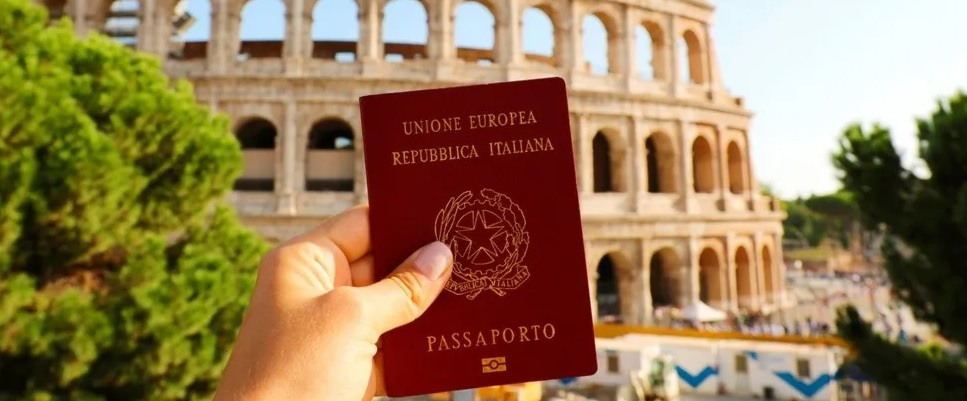
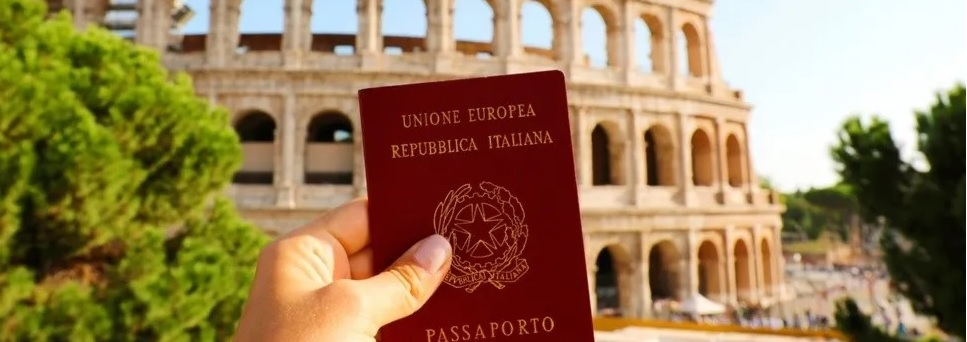
Arreglando vista italiana

diff --git a/page/ciudadaniaitaliana.html b/page/ciudadaniaitaliana.html
@@ -3,10 +3,16 @@
 <head>
     <meta charset="UTF-8">
     <meta name="viewport" content="width=device-width, initial-scale=1.0">
+    <!--Google Fonts-->
     <link rel="preconnect" href="https://fonts.googleapis.com">
     <link rel="preconnect" href="https://fonts.gstatic.com" crossorigin>
     <link href="https://fonts.googleapis.com/css2?family=Playwrite+SK:wght@100&display=swap" rel="stylesheet">
     <link href="https://fonts.googleapis.com/css2?family=Roboto:ital,wght@0,100;0,300;0,400;0,500;0,700;0,900;1,100;1,300;1,400;1,500;1,700;1,900&display=swap" rel="stylesheet">
+
+    <!--Bs-->
+    <link href="https://cdn.jsdelivr.net/npm/bootstrap@5.3.3/dist/css/bootstrap.min.css" rel="stylesheet" integrity="sha384-QWTKZyjpPEjISv5WaRU9OFeRpok6YctnYmDr5pNlyT2bRjXh0JMhjY6hW+ALEwIH" crossorigin="anonymous">
+
+    <!--Estilos-->
     <link rel="stylesheet" href="../css/styles.css">
     <title>Ciudadanía Italiana</title>
 </head>
@@ -28,7 +34,27 @@
         </header>
 
         <section class="class-carrusel">
-            <img class="img-banner" src="../img/passaporto.jpg" alt="Imagen">
+            <div id="carouselTwo" class="carousel slide">
+                <div class="carousel-inner">
+                  <div class="carousel-item active">
+                    <img src="../img/passaporto.jpg" class="img-banner d-block w-100" alt="Imagen">
+                  </div>
+                  <div class="carousel-item">
+                    <img src="../img/italy.jpg" class="img-banner d-block w-100" alt="Documentos anteriores">
+                  </div>
+                  <div class="carousel-item">
+                    <img src="../img/venecia.jpg" class="img-banner d-block w-100" alt="Fila migrantes barco">
+                  </div>
+                </div>
+                <button class="carousel-control-prev" type="button" data-bs-target="#carouselTwo" data-bs-slide="prev">
+                  <span class="carousel-control-prev-icon" aria-hidden="true"></span>
+                  <span class="visually-hidden">Previous</span>
+                </button>
+                <button class="carousel-control-next" type="button" data-bs-target="#carouselTwo" data-bs-slide="next">
+                  <span class="carousel-control-next-icon" aria-hidden="true"></span>
+                  <span class="visually-hidden">Next</span>
+                </button>
+            </div>
         </section>
 
         <section class="section-informacion">
@@ -303,5 +329,10 @@
             </section>       
         </footer>
     </div>
+
+    <!--Bs scripts-->
+    <script src="https://cdn.jsdelivr.net/npm/@popperjs/core@2.11.8/dist/umd/popper.min.js" integrity="sha384-I7E8VVD/ismYTF4hNIPjVp/Zjvgyol6VFvRkX/vR+Vc4jQkC+hVqc2pM8ODewa9r" crossorigin="anonymous"></script>
+    <script src="https://cdn.jsdelivr.net/npm/bootstrap@5.3.3/dist/js/bootstrap.min.js" integrity="sha384-0pUGZvbkm6XF6gxjEnlmuGrJXVbNuzT9qBBavbLwCsOGabYfZo0T0to5eqruptLy" crossorigin="anonymous"></script>   
+
 </body>
 </html>

diff --git a/css/styles.css b/css/styles.css
@@ -489,7 +489,8 @@ body {
 
 .div-srv-trad {
     display: flex;
-    margin: 0px 100px 20px 100px;
+    margin: 0px 30px 20px 30px;
+    align-items: center;
 
     p,h3 {
         margin-left: 50px;
@@ -502,7 +503,8 @@ body {
 
 .div-srv-rect {
     display: flex;
-    margin: 0px 100px 20px 100px;
+    margin: 0px 30px 20px 30px;
+    align-items: center;
 
     p,h3 {
         margin-left: 50px;
@@ -515,7 +517,8 @@ body {
 
 .div-srv-gen {
     display: flex;
-    margin: 0px 100px 20px 100px;
+    margin: 0px 30px 20px 30px;
+    align-items: center;
 
     p,h3 {
         margin-left: 50px;
@@ -528,7 +531,8 @@ body {
 
 .div-srv-ver {
     display: flex;
-    margin: 0px 100px 20px 100px;
+    margin: 0px 30px 20px 30px;
+    align-items: center;
 
     p,h3 {
         margin-left: 50px;
@@ -541,7 +545,8 @@ body {
 
 .div-srv-ase {
     display: flex;
-    margin: 0px 100px 20px 100px;
+    margin: 0px 30px 20px 30px;
+    align-items: center;
 
     p,h3 {
         margin-left: 50px;
@@ -554,7 +559,8 @@ body {
 
 .div-srv-recon {
     display: flex;
-    margin: 0px 100px 20px 100px;
+    margin: 0px 30px 20px 30px;
+    align-items: center;
 
     p,h3 {
         margin-left: 50px;
@@ -589,6 +595,12 @@ body {
     align-items: center
 }
 
+.div-imagen-comunas {
+    img {
+        width: 100%;
+    }
+}
+
 .class-footer-italiana {
     background-color: #cd212A;
     color: #F4F9FF;
@@ -620,6 +632,10 @@ body {
         align-content: stretch;
     }
 
+    .section-main-italiana h2 {
+        font-size: 1rem;
+    }
+
     .div-srv-trad {
         display: flex;
         align-items: center;
@@ -628,8 +644,10 @@ body {
         img {
             margin: 10px;
         }
+
         p,h3 {
             margin-left: 0px;
+            font-size: 0.8rem;
         }
     }
 
@@ -643,6 +661,7 @@ body {
         }
         p,h3 {
             margin-left: 0px;
+            font-size: 0.8rem;
         }
     }
 
@@ -657,6 +676,7 @@ body {
 
         p, h3 {
             margin-left: 0px;
+            font-size: 0.8rem;
         }
     }
 
@@ -671,6 +691,7 @@ body {
 
         p,h3 {
             margin-left: 0px;
+            font-size: 0.8rem;
         }
     }
 
@@ -685,6 +706,7 @@ body {
 
         p,h3 {
             margin-left: 0px;
+            font-size: 0.8rem;
         }
     }
 
@@ -699,6 +721,7 @@ body {
 
         p,h3 {
             margin-left: 0px;
+            font-size: 0.8rem;
         }
     }
 
@@ -728,7 +751,7 @@ body {
     .grid-container-italiana {
 
         grid-template-columns: repeat(1, 1fr);
-        grid-template-rows: 0.1fr 0.1fr 0.3fr 0.1fr 0.6fr 0.001fr;
+        grid-template-rows: 0.1fr 0.1fr 0.1fr 0.1fr 0.5fr 0.001fr;
         grid-template-areas:
         
         "header"

diff --git a/index.html b/index.html
@@ -34,7 +34,7 @@
         </header>
 
         <section class="class-carrusel">
-                <div id="carouselExample" class="carousel slide">
+                <div id="carouselOne" class="carousel slide">
                     <div class="carousel-inner">
                       <div class="carousel-item active">
                         <img src="img/ciu.jpg" class="img-banner d-block w-100" alt="Fila migrantes">
@@ -46,15 +46,15 @@
                         <img src="img/migrantes3.jpg" class="img-banner d-block w-100" alt="Fila migrantes barco">
                       </div>
                     </div>
-                    <button class="carousel-control-prev" type="button" data-bs-target="#carouselExample" data-bs-slide="prev">
+                    <button class="carousel-control-prev" type="button" data-bs-target="#carouselOne" data-bs-slide="prev">
                       <span class="carousel-control-prev-icon" aria-hidden="true"></span>
                       <span class="visually-hidden">Previous</span>
                     </button>
-                    <button class="carousel-control-next" type="button" data-bs-target="#carouselExample" data-bs-slide="next">
+                    <button class="carousel-control-next" type="button" data-bs-target="#carouselOne" data-bs-slide="next">
                       <span class="carousel-control-next-icon" aria-hidden="true"></span>
                       <span class="visually-hidden">Next</span>
                     </button>
-                  </div>
+                </div>
         </section>
 
         <aside class="aside-nosotros">
